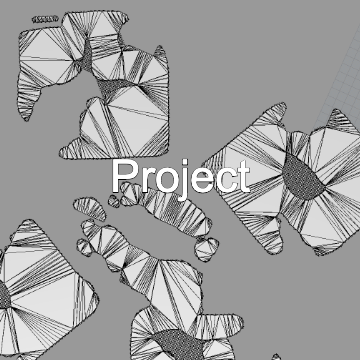
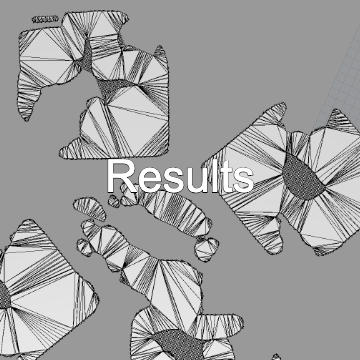
Change Project into Results (naming)

Changed region(s): [[0.275, 0.4278, 0.7028, 0.5806]]

diff --git a/src/App.js b/src/App.js
@@ -2,7 +2,7 @@ import React from 'react';
 import Home from './Home';
 import About from './About';
 import Model from './Model';
-import Project from './Project';
+import Results from './Results';
 import Dataset from './Dataset';
 import InteractiveModel from './InteractiveModel';
 import { BrowserRouter as Router, Switch, Route, NavLink} from "react-router-dom";
@@ -20,7 +20,7 @@ function App() {
         <Nav className="ml-auto">
           <NavLink className="nav-link" activeClassName="active" to="/dataset">Dataset</NavLink>
           <NavLink className="nav-link" activeClassName="active" to="/model">Model</NavLink>
-          <NavLink className="nav-link" activeClassName="active" to="/project">Project</NavLink>
+          <NavLink className="nav-link" activeClassName="active" to="/results">Results</NavLink>
           <NavLink className="nav-link" activeClassName="active" to="/about">About</NavLink>
         </Nav>
       </Navbar.Collapse>
@@ -31,7 +31,7 @@ function App() {
         <Route path="/about" render={(props) => <About {...props} />} />
         <Route path="/dataset" render={(props) => <Dataset {...props} />} />
         <Route path="/model" render={(props) => <Model {...props} />} />
-        <Route path="/project" render={(props) => <Project {...props} />} />
+        <Route path="/results" render={(props) => <Results {...props} />} />
         <Route path="/" render={(props) => <Home {...props} />} />
       </Switch>
     </Container>

diff --git a/src/Model.js b/src/Model.js
@@ -152,10 +152,13 @@ class Model extends React.Component {
             <div>
                 <Container className="gallery-container">
                     <hr />
+                    <h3>Pix2Pix: the General Advesarial Network(GAN) model we chose</h3>
                     {imgrowwf}
                     <hr />
+                    <h3>Test 1: random images we fed into the model</h3>
                     {imgrow1}
                     <hr />
+                    <h3>Test 2: we made a .gif animation</h3>
                     <Image
                         src={require('./images/model/test2gif/1.gif')}
                         className="border border-white gif-item"

diff --git a/src/Results.js b/src/Results.js
@@ -32,7 +32,7 @@ const modelsrclist = ["https://www.vectary.com/viewer/v1/?model=034c92c6-6cd1-4d
     "https://www.vectary.com/viewer/v1/?model=7d6f61ea-5b09-45f2-b2f8-298a23f10c59&env=studio3"]
 
 
-class Project extends React.Component {
+class Results extends React.Component {
     constructor(props){
         super(props);
 
@@ -179,4 +179,4 @@ class Project extends React.Component {
     }
 }
 
-export default Project;
+export default Results;

diff --git a/src/Home.js b/src/Home.js
@@ -33,7 +33,7 @@ function Home(props) {
             <Image className="thumbnail-sub"
                 src={require('./images/md-tb.png')}
             /></a>
-          <a href="/project">
+          <a href="/results">
             <Image className="thumbnail-sub"
                 src={require('./images/pj-tb.png')}
             /></a>

diff --git a/src/index.css b/src/index.css
@@ -185,3 +185,7 @@ body,html {
 .workflow-sect:hover {
   cursor: pointer;
 }
+
+h3 {
+  margin-bottom: 20px;
+}
